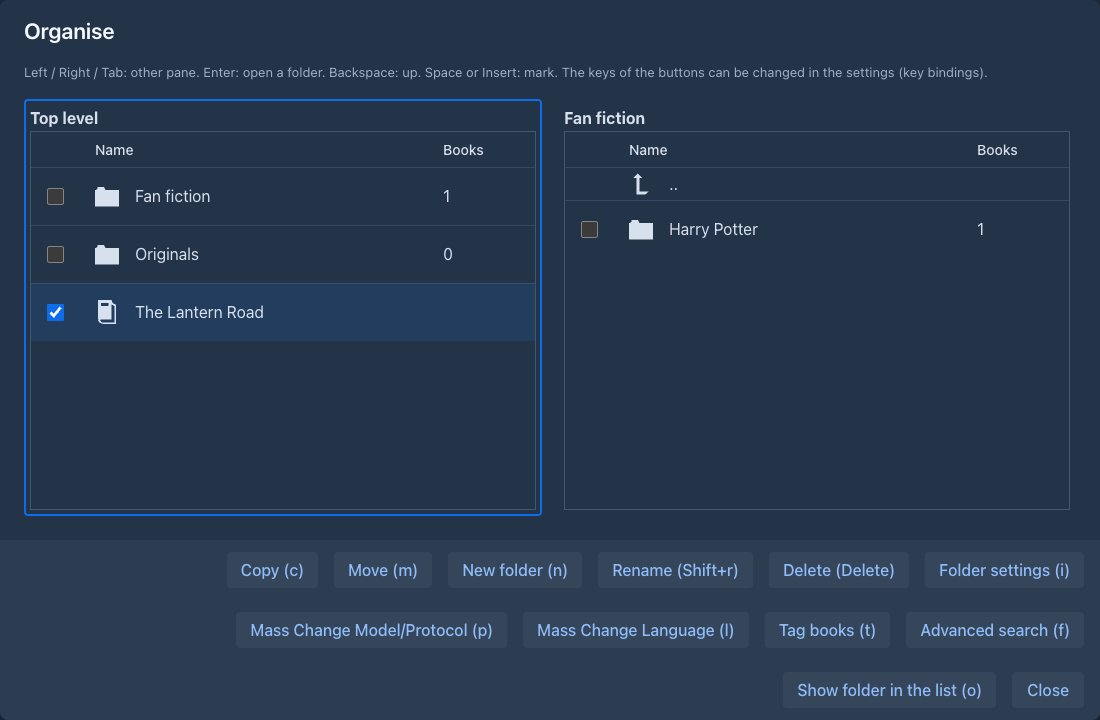
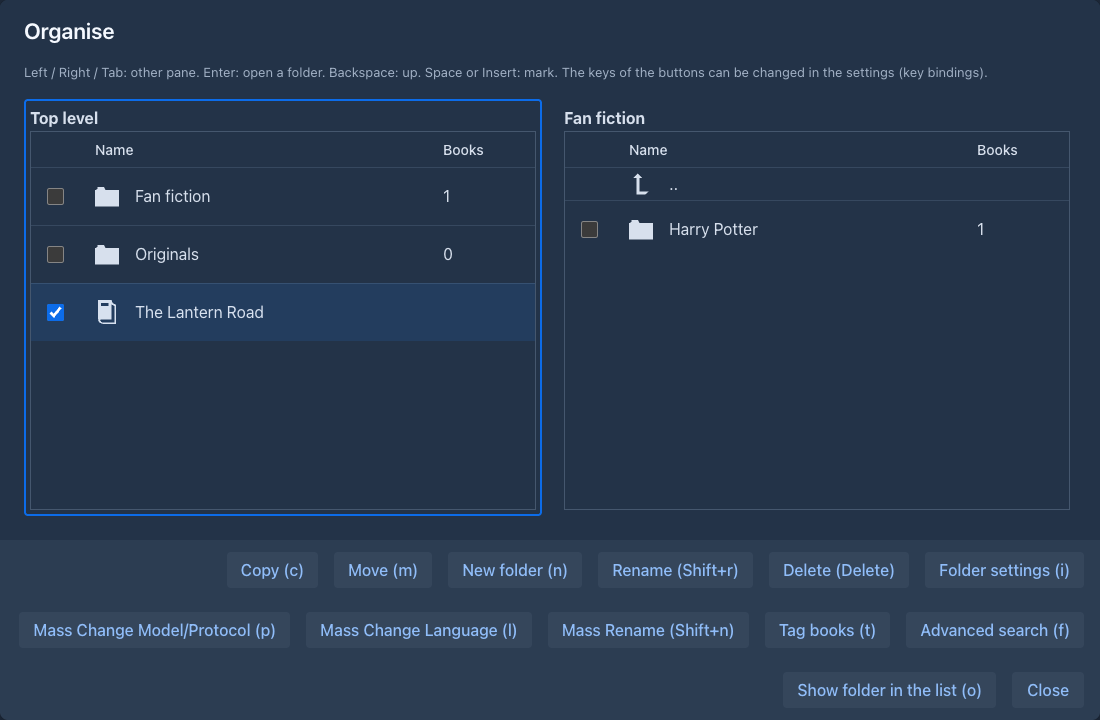
Add mass rename steps to shoot-folders flow and update screenshots

Changed region(s): [[0.0309, 0.8556, 0.68, 0.8861]]

diff --git a/screenshots/SCREENSHOTS.md b/screenshots/SCREENSHOTS.md
@@ -154,7 +154,7 @@ characters... would show in the outline, the prompt and the token numbers of the
 | `shoot-help` | a **copy** of `13-db-backup`, discarded | the help assistant (nobody has the permission in the other pictures, so the robot button is not in them): its Admin tab with the model chosen, then the *Help assistant* permission of the administrator with *Allow navigating the interface* (the assistant moves through the interface only for a user whose permission allows it), the chat panel with an answer queued in the fake model, then a second question for which the fake model calls `get_ui_state` and `interact_with_ui` (queued `toolCalls`) so that the assistant really opens the Admin page and a tab, then a third one over the *New Inference Provider* dialog (the assistant stays usable above a dialog): the fake model reads the form with `get_ui_state` and explains the empty required field: `admin-help-assistant`, `help-assistant`, `help-assistant-navigate`, `help-assistant-form` |
 | `shoot-permissions` | a **copy** of `13-db-backup`, discarded | the permissions window of `ginny` (key button of *Admin → Users*; the application gave her *Create own models* when it migrated the old data): the list of the permissions to add, the *Help assistant* permission added with its settings unfolded, the *Agents* one too (the window and its table are made taller for that picture), saved and folded: `permissions-add`, `permissions-settings`, `permissions-settings-agents`, `permissions-dialog` |
 | `shoot-books-extra` | a **copy** of `13-db-backup`, discarded | a book imported from a zip of `.md` files (`archive-upload`), *Tag books*, a lorebook with two subbooks imported from `dataset/lorebook.mjs` (`companion`): *Count with subbooks*, *Mass edit*, *Tag entries*, and the entries imported from a zip (the zip files are made by the flow in `out/_archive/`): `archive-upload`, `multi-tag-books`, `lorebook-sub-lorebooks`, `lorebook-mass-edit`, `multi-tag-entries`, `archive-lorebook-upload`, `archive-entry-names` |
-| `shoot-folders` | a **copy** of `13-db-backup`, discarded | the folders of 1.6.0, made through the real UI: *Fan fiction / Harry Potter* and *Originals*, a second book (*The Lantern Road*, a favorite), the story book moved into *Harry Potter*, the style set in the settings of *Fan fiction*; then the list, the mass changes, the Organise window, the *Prompts* tab that inherits the style, the minimized tabs and the mass delete of the story, the help assistant with the check box for the books (the fake model calls `search_books`), and the phone list (a second browser): `books-folders`, `folder-settings`, `mass-change-model-protocol`, `mass-change-language`, `organise-dialog`, `book-prompts-inherited`, `story-minimized-tabs`, `story-mass-delete`, `help-assistant-books`, `phone-folders` |
+| `shoot-folders` | a **copy** of `13-db-backup`, discarded | the folders of 1.6.0, made through the real UI: *Fan fiction / Harry Potter* and *Originals*, a second book (*The Lantern Road*, a favorite), the story book moved into *Harry Potter*, the style set in the settings of *Fan fiction*; then the list, the mass changes (the rename numbers the books of all folders), the Organise window, the *Prompts* tab that inherits the style, the minimized tabs and the mass delete of the story, the help assistant with the check box for the books (the fake model calls `search_books`), and the phone list (a second browser): `books-folders`, `folder-settings`, `mass-change-model-protocol`, `mass-change-language`, `mass-rename`, `organise-dialog`, `book-prompts-inherited`, `story-minimized-tabs`, `story-mass-delete`, `help-assistant-books`, `phone-folders` |
 | `shoot-agents` | a **copy** of `22-arcoutline`, discarded | the Agents tab and what is behind it. The administrator gets three concurrent runs (*Agents* permission), the book is cloned three times (`book-clone`) and four agents are made: *Continuity editor* (a conversation in the console: it asks what to do, works, reports three findings, edits parts, a lorebook entry and an arc of the outline, asks a *Reader* sub-agent, finishes; the author compacts it, finishes it, and changes the same sentence and the same arc meanwhile, so that the review has conflicts and a JSON merge), *Lore keeper* (asks a question with `ask_user`, then is paused), *Style editor* (calls `delete-part`, **Ask first**: waits for the approval) and *Drafter* (the fake model is slow: it works while `agents-tab` is taken). Every answer of the fake model is queued (`toolCalls` of `/_queue`, see `lib/agents.mjs`) before the step that needs it. The handles the agent names (`h:m5`, `h:e9`) are the numbers the run gives the things in the order it first lists them (`list-parts` and `list-lore-entries` first). The window of the approval only comes up when the console is open while the agent works (opened after, it lies under the console), and it can not be closed without a decision, so the flow reloads the page. Phone pictures with a second browser. Pictures: `agent-dialog`, `agent-dialog-prompts`, `agent-models`, `agent-commands`, `agent-start-menu`, `agent-console-start`, `agent-console-run`, `agent-console-report`, `agent-console-plan`, `agent-console-findings`, `agent-console-command`, `agent-console-question`, `agent-console-workspace`, `agent-checkpoints`, `agent-context`, `agent-book-copy`, `agent-diagnostics`, `agent-runs`, `agent-subagents`, `agent-approval`, `agent-resume`, `agent-stop`, `agents-tab`, `agent-locked-book`, `agent-locked-lorebook`, `agent-clone`, `admin-agents`, `agent-review`, `agent-review-conflict`, `agent-review-differences`, `agent-review-json`, `agent-json-merge`, `phone-agents`, `phone-agent-console`, `book-clone` |
 | `plugin-googlegenai` | a **copy** of `13-db-backup`, discarded | installs the Google Gemini JAR, adds a provider of the type *Extension* (nothing is sent to Google): `plugin-googlegenai-type`, `plugin-googlegenai`, `plugin-googlegenai-list` |
 | `plugin-stconverter` | a **copy** of `13-db-backup`, discarded | uploads the chat of `dataset/stchat.mjs` to the Converter tab (the first upload of it, the chat), chooses the whole range and converts it (the turn details are queued in the fake model): `plugin-stconverter-chat`, `plugin-stconverter-turns` |

diff --git a/manual/user/books/managing-books.md b/manual/user/books/managing-books.md
@@ -115,6 +115,8 @@ The item **Mass Rename** renames the checked books at once. Pick how:
 | **Find and replace** | Replaces every occurrence of **Find** in the name with **Replace with** (empty removes it). The text is taken as it is, not as a pattern; **Case sensitive** is off by default. |
 | **Number the books** | Gives the books numbers: the **Name pattern** is the new name, with `{name}` for the current name and `{n}` for the number, for example `{name} {n}`, `{n}. {name}` or `Chapter {n}`. The first checked book gets **Start at**, each next one the **Step** more, and **Digits** pads the number with zeros (`007`). |
 
+![Numbering the books of all folders](../../images/mass-rename.png)
+
 The column **New name** shows what each checked book would get while you type, so check it before you press **Rename**. A
 numbering counts the checked books in the order of the list (by name). Spaces at the start and the end of the new name are
 removed. Nothing is renamed, and the window stays open, when a text is missing, when the pattern has no `{n}`, when no name
